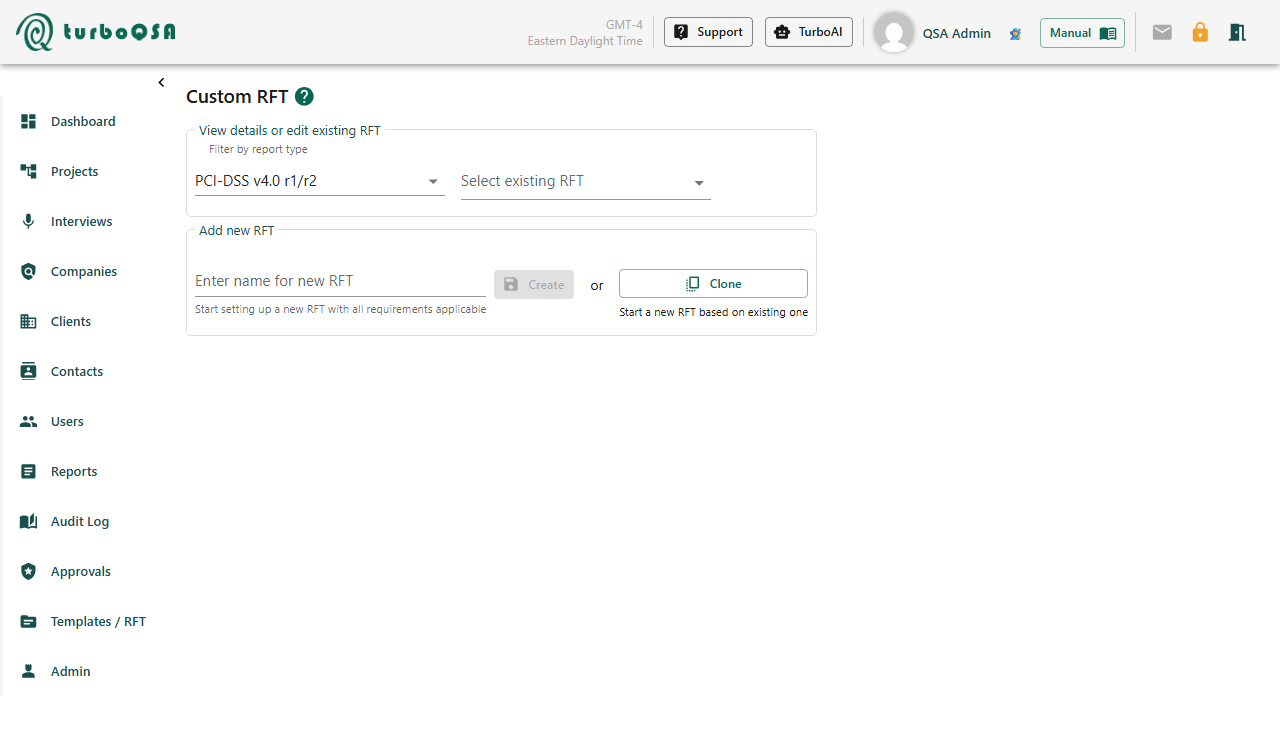
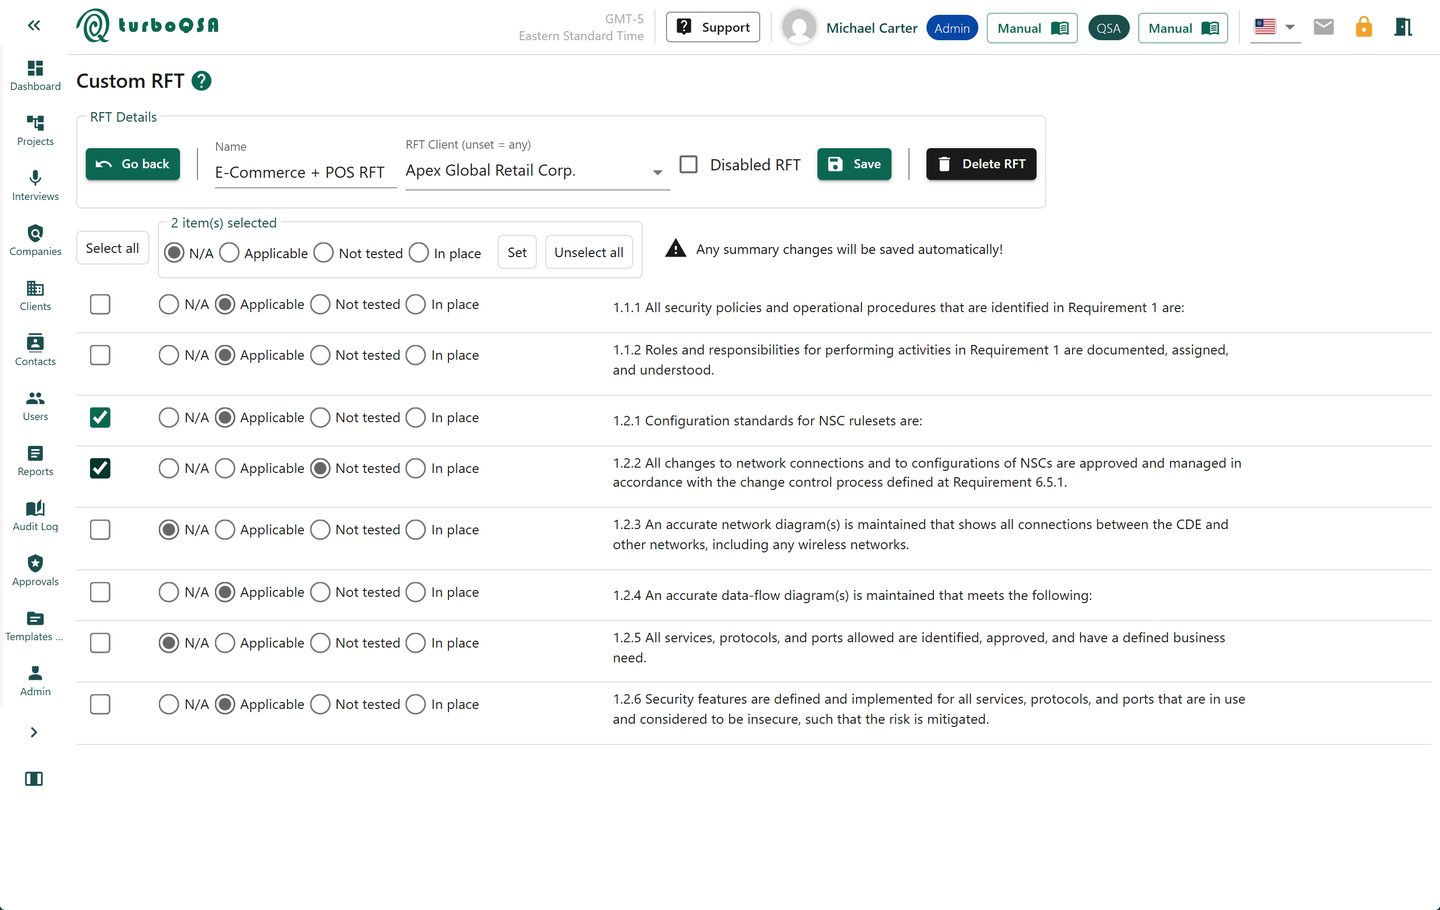
Refresh Customer Roles, Payment Channels, and Custom RFT screenshots

diff --git a/src/templates/index-page.js b/src/templates/index-page.js
@@ -33,13 +33,13 @@ const FEATURE_VISUAL_OVERRIDES = {
   },
   paymentChannels: {
     src: uiPaymentChannels,
-    caption: 'Per-Channel Responses & RFT Overrides',
-    alt: 'TurboQSA payment channel selection and Retail POS Terminals RFT Override controls',
+    caption: 'Per-Channel Responses & All Channels Selection',
+    alt: 'TurboQSA PCI DSS v4.0.1 r3 Requirement 2.2.2 showing separate E-Commerce and Retail POS Terminals channel responses alongside a unified All Channels response',
   },
   customerRoles: {
     src: uiCustomerRoles,
-    caption: 'Customer Roles, ECR & Responsibility Areas',
-    alt: 'TurboQSA stakeholders and roles showing Executive Client Representative, QSA, Associate QSA, Client, and Responsibility indicators',
+    caption: 'Executive Client Representative & Responsibility Areas',
+    alt: 'TurboQSA Responsibility Areas workspace signed in as Executive Client Representative (ECR), showing assigned client stakeholders and evidence, interview, and response request actions',
   },
   interviews: {
     src: uiInterviewScheduler,
@@ -510,12 +510,12 @@ export const IndexPageTemplate = ({
                     <span />
                   </div>
                   <span className="tq-screen-frame__caption">
-                    Templates &amp; Custom RFT Manager
+                    Custom RFT Builder &amp; Requirement Applicability
                   </span>
                 </div>
                 <img
                   src={uiCustomRft}
-                  alt="TurboQSA Custom RFT manager showing PCI DSS filter, existing RFT selector, and Clone action"
+                  alt="TurboQSA Custom RFT Builder showing RFT Details, bulk applicability selection toolbar, and per-requirement N/A, Applicable, Not tested, and In place controls"
                   loading="lazy"
                 />
               </div>
